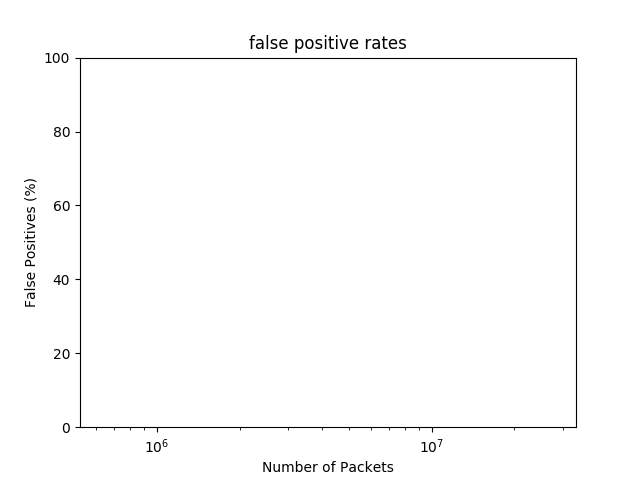
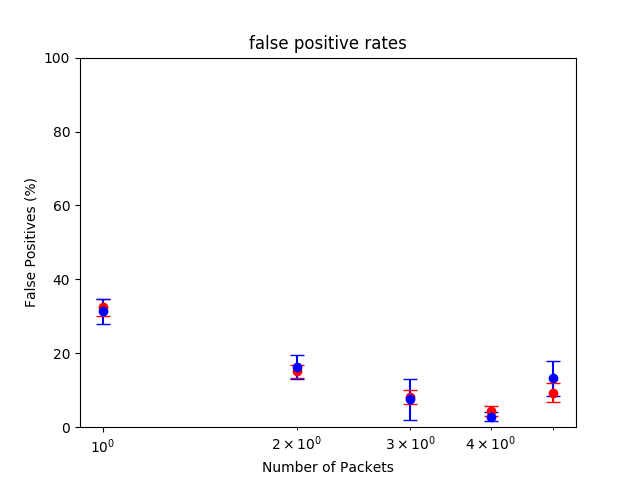
new graphs

diff --git a/chicago2016/plot_graph.py b/chicago2016/plot_graph.py
@@ -59,9 +59,9 @@ def graph(rhh_confidence_intervals, _10_rhh_confidence_intervals, graph_name, x_
 	ax.set_xlabel(x_label)
 	ax.set_ylabel(y_label)
 	ax.set_ylim([0,100])
-	ax.set_xlim([2**19,2**25])
-	ax.set_xticks([2**x for x in range(19, 26)])
-	ax.set_xticklabels(["2^%s"%x for x in range(19, 26)])
+	#ax.set_xlim([2**19,2**25])
+	#ax.set_xticks([2**x for x in range(19, 26)])
+	#ax.set_xticklabels(["2^%s"%x for x in range(19, 26)])
 	ax.set_xscale("log")
 	plt.title(graph_name)
 	fig.savefig("_".join(graph_name.split()) + '_fig.png')
